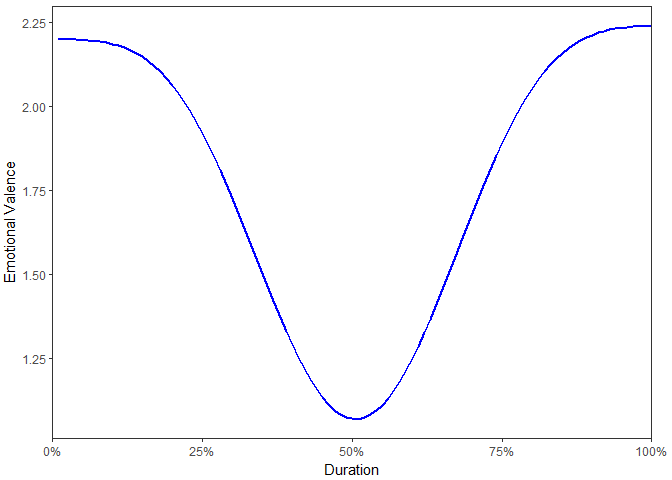
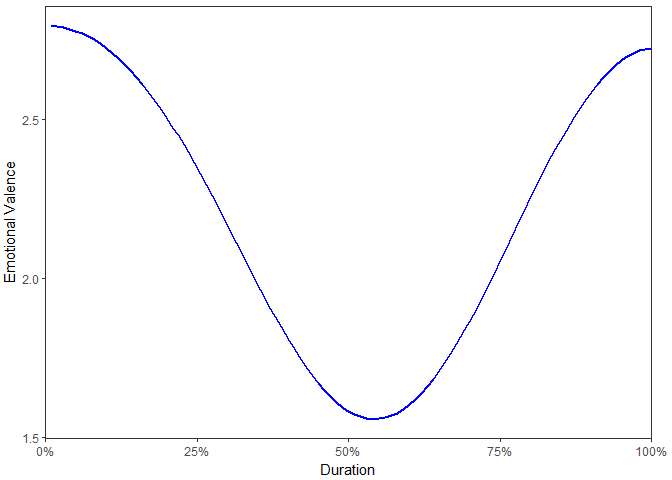
textshape is now the backend for get_sentences meaning sentence splitting is outside of sentiment functions close #30 clse #46
The arguments with averaging functions have been prefixed with sentimentr:: close #49

diff --git a/README.md b/README.md
@@ -2,6 +2,29 @@ sentimentr
 ============
 
 
+    ## 
+    ## Attaching package: 'dplyr'
+
+    ## The following objects are masked from 'package:stats':
+    ## 
+    ##     filter, lag
+
+    ## The following object is masked from 'package:qdap':
+    ## 
+    ##     %>%
+
+    ## The following object is masked from 'package:qdapTools':
+    ## 
+    ##     id
+
+    ## The following objects are masked from 'package:qdapRegex':
+    ## 
+    ##     escape, explain
+
+    ## The following objects are masked from 'package:base':
+    ## 
+    ##     intersect, setdiff, setequal, union
+
 [![Project Status: Active - The project has reached a stable, usable
 state and is being actively
 developed.](http://www.repostatus.org/badges/0.1.0/active.svg)](http://www.repostatus.org/#active)
@@ -410,9 +433,9 @@ boundary disambiguation) via the `get_sentences` function. This can be
 handled within `sentiment` (i.e., you can pass a raw character vector)
 but it slows the function down and should be done one time rather than
 every time the function is called. Additionally, a warning will be
-thrown if a raw character vector is passed. The preferred workflow is to
-spit the text into sentences with `get_sentences`before any sentiment
-analysis is done.
+thrown if a larger raw character vector is passed. The preferred
+workflow is to spit the text into sentences with `get_sentences` before
+any sentiment analysis is done.
 
     mytext <- c(
         'do you like it?  But I hate really bad dogs',
@@ -425,8 +448,8 @@ analysis is done.
 
     ##    element_id sentence_id word_count  sentiment
     ## 1:          1           1          4  0.2500000
-    ## 2:          1           2          5 -1.2074767
-    ## 3:          2           1          4  0.6500000
+    ## 2:          1           2          6 -2.0085816
+    ## 3:          2           1          5  0.5813777
     ## 4:          3           1          5  0.4024922
     ## 5:          3           2          4  0.0000000
 
@@ -442,8 +465,8 @@ To aggregate by element (column cell or vector element) use
     sentiment_by(mytext)
 
     ##    element_id word_count       sd ave_sentiment
-    ## 1:          1          9 1.030592    -0.4787384
-    ## 2:          2          4       NA     0.6500000
+    ## 1:          1         10 1.597058    -0.8792908
+    ## 2:          2          5       NA     0.5813777
     ## 3:          3          9 0.284605     0.2196345
 
 To aggregate by grouping variables use `sentiment_by` using the `by`
@@ -458,16 +481,16 @@ argument.
     ))
 
     ##        person   time word_count        sd ave_sentiment
-    ##  1:     OBAMA time 1       3562 0.3133775    0.16920196
-    ##  2:     OBAMA time 2       7336 0.2298367    0.10078788
-    ##  3:     OBAMA time 3       7150 0.3033695    0.11811328
-    ##  4:    ROMNEY time 1       4003 0.2361113    0.09478697
-    ##  5:    ROMNEY time 2       7339 0.2053664    0.06826036
-    ##  6:    ROMNEY time 3       8141 0.2634597    0.09287391
-    ##  7:   CROWLEY time 2       1624 0.1620184    0.11278320
-    ##  8:    LEHRER time 1        757 0.2541787    0.12512245
-    ##  9:  QUESTION time 2        565 0.2004974    0.02267896
-    ## 10: SCHIEFFER time 3       1423 0.2270669    0.05612479
+    ##  1:     OBAMA time 1       3598 0.3015097    0.16673169
+    ##  2:     OBAMA time 2       7476 0.2399589    0.11663216
+    ##  3:     OBAMA time 3       7241 0.2614870    0.11842952
+    ##  4:    ROMNEY time 1       4085 0.2505313    0.12462353
+    ##  5:    ROMNEY time 2       7534 0.2382667    0.08540709
+    ##  6:    ROMNEY time 3       8302 0.2846332    0.10652350
+    ##  7:   CROWLEY time 2       1672 0.1878174    0.17977897
+    ##  8:    LEHRER time 1        765 0.2847680    0.18338771
+    ##  9:  QUESTION time 2        583 0.2076347    0.06625726
+    ## 10: SCHIEFFER time 3       1445 0.2471048    0.08780297
 
 Tidy Approach
 -------------
@@ -482,16 +505,16 @@ Or if you prefer a more tidy approach:
         sentiment_by(dialogue_split, list(person, time))
 
     ##        person   time word_count        sd ave_sentiment
-    ##  1:     OBAMA time 1       3562 0.3133775    0.16920196
-    ##  2:     OBAMA time 2       7336 0.2298367    0.10078788
-    ##  3:     OBAMA time 3       7150 0.3033695    0.11811328
-    ##  4:    ROMNEY time 1       4003 0.2361113    0.09478697
-    ##  5:    ROMNEY time 2       7339 0.2053664    0.06826036
-    ##  6:    ROMNEY time 3       8141 0.2634597    0.09287391
-    ##  7:   CROWLEY time 2       1624 0.1620184    0.11278320
-    ##  8:    LEHRER time 1        757 0.2541787    0.12512245
-    ##  9:  QUESTION time 2        565 0.2004974    0.02267896
-    ## 10: SCHIEFFER time 3       1423 0.2270669    0.05612479
+    ##  1:     OBAMA time 1       3598 0.3015097    0.16673169
+    ##  2:     OBAMA time 2       7476 0.2399589    0.11663216
+    ##  3:     OBAMA time 3       7241 0.2614870    0.11842952
+    ##  4:    ROMNEY time 1       4085 0.2505313    0.12462353
+    ##  5:    ROMNEY time 2       7534 0.2382667    0.08540709
+    ##  6:    ROMNEY time 3       8302 0.2846332    0.10652350
+    ##  7:   CROWLEY time 2       1672 0.1878174    0.17977897
+    ##  8:    LEHRER time 1        765 0.2847680    0.18338771
+    ##  9:  QUESTION time 2        583 0.2076347    0.06625726
+    ## 10: SCHIEFFER time 3       1445 0.2471048    0.08780297
 
 Note that you can skip the `dplyr::mutate` step by using `get_sentences`
 on a `data.frame` as seen below:
@@ -500,23 +523,23 @@ on a `data.frame` as seen below:
         get_sentences() %$%
         sentiment_by(dialogue, list(person, time))
 
-    ## Warning in sentiment_by.character(dialogue, list(person, time)): Each time
+    ## Warning in split_warn(text.var, "sentiment_by", ...): Each time
     ## `sentiment_by` is run it has to do sentence boundary disambiguation when
     ## a raw `character` vector is passed to `text.var`. This may be costly of
     ## time and memory. It is highly recommended that the user first runs the raw
     ## `character` vector through the `get_sentences` function.
 
     ##        person   time word_count        sd ave_sentiment
-    ##  1:     OBAMA time 1       3562 0.3133775    0.16920196
-    ##  2:     OBAMA time 2       7336 0.2298367    0.10078788
-    ##  3:     OBAMA time 3       7150 0.3033695    0.11811328
-    ##  4:    ROMNEY time 1       4003 0.2361113    0.09478697
-    ##  5:    ROMNEY time 2       7339 0.2053664    0.06826036
-    ##  6:    ROMNEY time 3       8141 0.2634597    0.09287391
-    ##  7:   CROWLEY time 2       1624 0.1620184    0.11278320
-    ##  8:    LEHRER time 1        757 0.2541787    0.12512245
-    ##  9:  QUESTION time 2        565 0.2004974    0.02267896
-    ## 10: SCHIEFFER time 3       1423 0.2270669    0.05612479
+    ##  1:     OBAMA time 1       3598 0.3015097    0.16673169
+    ##  2:     OBAMA time 2       7476 0.2399589    0.11663216
+    ##  3:     OBAMA time 3       7241 0.2614870    0.11842952
+    ##  4:    ROMNEY time 1       4085 0.2505313    0.12462353
+    ##  5:    ROMNEY time 2       7534 0.2382667    0.08540709
+    ##  6:    ROMNEY time 3       8302 0.2846332    0.10652350
+    ##  7:   CROWLEY time 2       1672 0.1878174    0.17977897
+    ##  8:    LEHRER time 1        765 0.2847680    0.18338771
+    ##  9:  QUESTION time 2        583 0.2076347    0.06625726
+    ## 10: SCHIEFFER time 3       1445 0.2471048    0.08780297
 
 Plotting
 --------
@@ -585,10 +608,10 @@ Now we can check that `mykey` is a usable dictionary:
 
 The key is ready for use:
 
-    sentiment_by(get_sentences("I am a human."), polarity_dt = mykey)
+    sentiment_by("I am a human.", polarity_dt = mykey)
 
     ##    element_id word_count sd ave_sentiment
-    ## 1:          1          3 NA    -0.1465203
+    ## 1:          1          4 NA    -0.7594893
 
 You can see the values of a key that correspond to a word using
 **data.table** syntax:
@@ -607,10 +630,10 @@ the "a" and "h" terms (notice there are now 24 rows rather than 26):
 
     ## [1] 24
 
-    sentiment_by(get_sentences("I am a human."), polarity_dt = mykey_dropped)
+    sentiment_by("I am a human.", polarity_dt = mykey_dropped)
 
     ##    element_id word_count sd ave_sentiment
-    ## 1:          1          3 NA             0
+    ## 1:          1          4 NA     -0.632599
 
 Next I add the terms "dog" and "cat" as a `data.frame` with sentiment
 values:
@@ -624,10 +647,10 @@ values:
 
     ## [1] 28
 
-    sentiment(get_sentences("I am a human. The dog.  The cat"), polarity_dt = mykey_added)
+    sentiment("I am a human. The dog.  The cat", polarity_dt = mykey_added)
 
     ##    element_id sentence_id word_count  sentiment
-    ## 1:          1           1          3 -0.1465203
+    ## 1:          1           1          4 -0.7594893
     ## 2:          1           2          2  0.7071068
     ## 3:          1           3          2 -0.7071068
 
@@ -676,9 +699,9 @@ SentiWord lexicons available from the
 
     left_just(data.frame(
         stanford = sentiment_stanford(ase)[["sentiment"]],
-        sentimentr_jockers = round(sentiment(get_sentences(ase), question.weight = 0)[["sentiment"]], 2),
-        sentimentr_huliu = round(sentiment(get_sentences(ase), lexicon::hash_sentiment_huliu, question.weight = 0)[["sentiment"]], 2),    
-        sentimentr_sentiword = round(sentiment(get_sentences(ase), lexicon::hash_sentiment_sentiword, question.weight = 0)[["sentiment"]], 2),    
+        sentimentr_jockers = round(sentiment(ase, question.weight = 0)[["sentiment"]], 2),
+        sentimentr_huliu = round(sentiment(ase, lexicon::hash_sentiment_huliu, question.weight = 0)[["sentiment"]], 2),    
+        sentimentr_sentiword = round(sentiment(ase, lexicon::hash_sentiment_sentiword, question.weight = 0)[["sentiment"]], 2),    
         RSentiment = calculate_score(ase), 
         SentimentAnalysis,
         meanr = score(ase)[['score']],
@@ -688,15 +711,15 @@ SentiWord lexicons available from the
     ), "sentences")
 
       stanford sentimentr_jockers sentimentr_huliu sentimentr_sentiword
-    1     -0.5               0.19             0.38                 0.19
-    2        1               0.68              0.9                 0.73
+    1     -0.5               0.18             0.35                 0.18
+    2        1                0.6              0.8                 0.65
     3      0.5               0.38              0.5                 0.32
     4     -0.5                  0                0                    0
-    5     -0.5              -0.31            -0.41                -0.66
-    6     -0.5               0.05             0.06                 0.04
+    5     -0.5              -0.31            -0.41                -0.56
+    6     -0.5               0.04             0.06                 0.11
     7     -0.5              -0.28            -0.38                -0.05
-    8        0                  0                0                    0
-    9     -0.5               0.31             0.41                 0.26
+    8        0              -0.14                0                -0.14
+    9     -0.5               0.28             0.38                 0.24
       RSentiment SA_GI SA_LM SA_QDAP meanr syuzhet bing afinn nrc
     1          1 -0.25     0   -0.25    -1    -0.5   -1    -2   0
     2          1  0.33  0.33       0     1    0.75    1     3   1
@@ -733,13 +756,12 @@ than other methods but is returning 3 scores from 3 different
 dictionaries.
 
     ase_100 <- rep(ase, 100)
-    ase_100_split <- get_sentences(ase_100)
-        
+     
     stanford <- function() {sentiment_stanford(ase_100)}
 
-    sentimentr_jockers <- function() sentiment(ase_100_split, lexicon::hash_sentiment_jockers)
-    sentimentr_huliu <- function() sentiment(ase_100_split, lexicon::hash_sentiment_huliu)
-    sentimentr_sentiword <- function() sentiment(ase_100_split, lexicon::hash_sentiment_sentiword) 
+    sentimentr_jockers <- function() sentiment(ase, lexicon::hash_sentiment_jockers)
+    sentimentr_huliu <- function() sentiment(ase, lexicon::hash_sentiment_huliu)
+    sentimentr_sentiword <- function() sentiment(ase, lexicon::hash_sentiment_sentiword) 
         
     RSentiment <- function() calculate_score(ase_100) 
         
